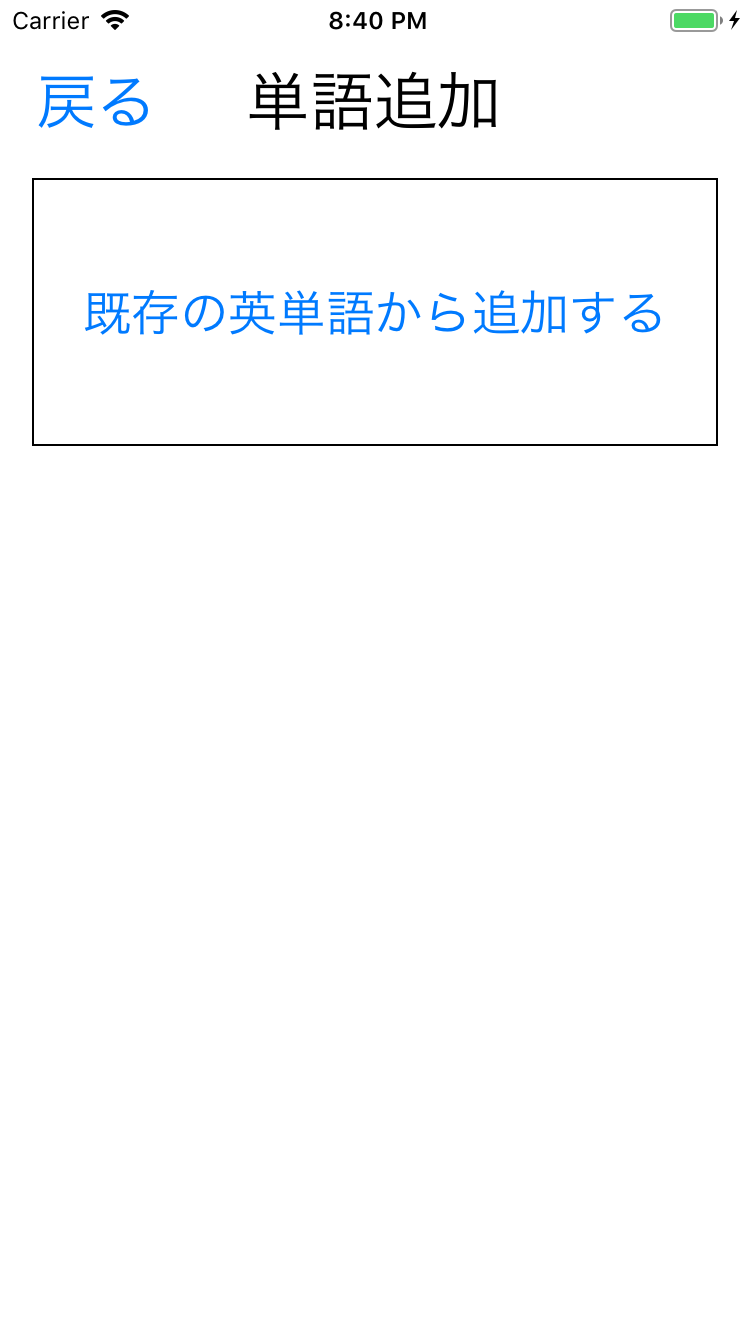
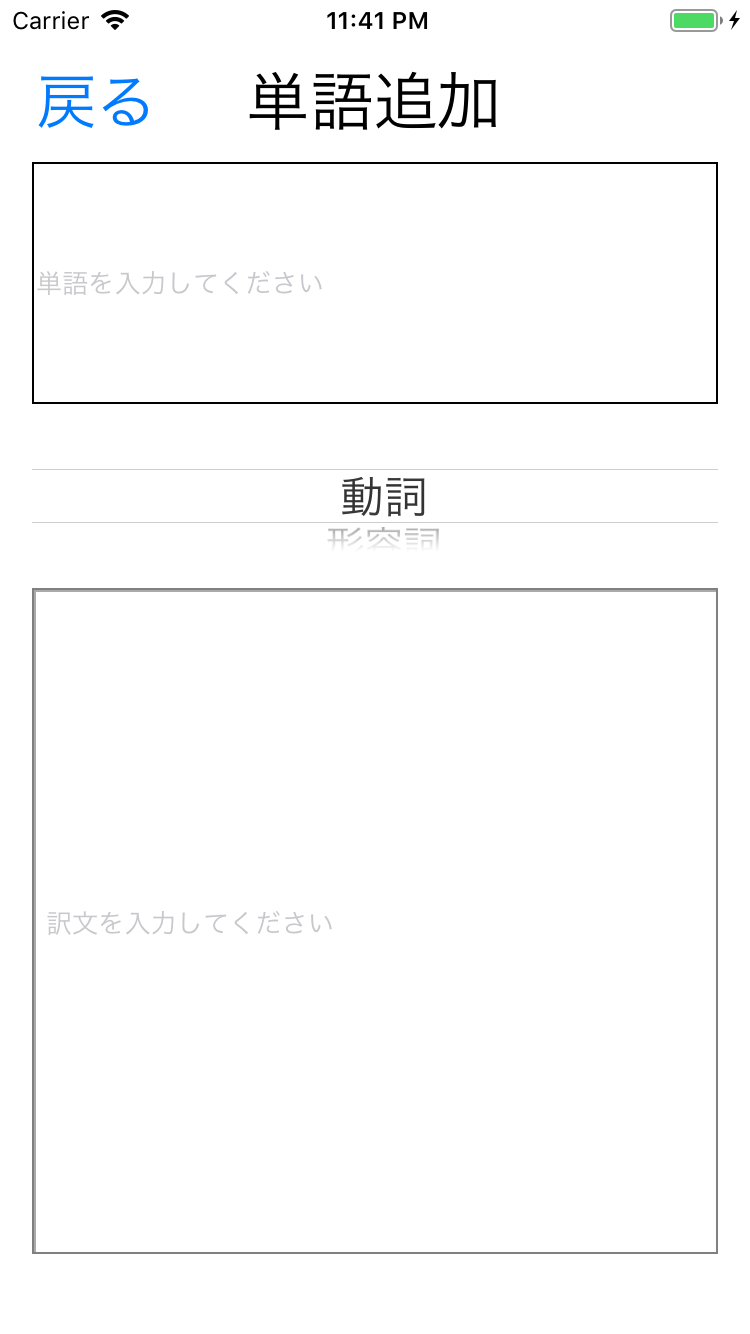
単語追加画面を変更、単語、訳文、品詞PickViewを追加

diff --git a/EnglishWords/EnglishWords/AddWordViewController.swift b/EnglishWords/EnglishWords/AddWordViewController.swift
@@ -10,17 +10,60 @@ import Foundation
 import UIKit
 import RealmSwift
 
-class AddWordViewController: UIViewController {
+class AddWordViewController: UIViewController,UIPickerViewDelegate,UIPickerViewDataSource{
     
+    @IBOutlet var wordtextField: UITextField!
+    @IBOutlet var meantextField: UITextField!
+    @IBOutlet var pickerView: UIPickerView!
+    
+    var partsofspeechlist: [PartsofSpeech] = []
+    var selectedPartsOfSpeech = ""
     var wordnotebook: WordNoteBook?
-    
-    @IBOutlet var AddWordFromMasterbutton: UIButton!
     
     override func viewDidLoad() {
         super.viewDidLoad()
         
-        //ボタンを黒い枠線で囲む
-        AddWordFromMasterbutton.layer.borderColor = UIColor.black.cgColor
+        // Delegate設定
+        pickerView.delegate = self
+        pickerView.dataSource = self
+        
+        wordtextField.placeholder = "単語を入力してください"
+        meantextField.placeholder = "訳文を入力してください"
+        
+        //データベース内に保存してあるPartsofSpeechを全て取得
+        let realm: Realm = try! Realm()
+        let results = realm.objects(PartsofSpeech.self)
+        partsofspeechlist = Array(results)
+        print(partsofspeechlist)
+    }
+    
+    override func didReceiveMemoryWarning() {
+        super.didReceiveMemoryWarning()
+    }
+    
+    // UIPickerViewの列の数
+    func numberOfComponents(in pickerView: UIPickerView) -> Int {
+        return 1
+    }
+    
+    // UIPickerViewの行数、リストの数
+    func pickerView(_ pickerView: UIPickerView, numberOfRowsInComponent component: Int) -> Int {
+        return partsofspeechlist.count
+    }
+    
+    // UIPickerViewに表示する配列
+    func pickerView(_ pickerView: UIPickerView,
+                    titleForRow row: Int,
+                    forComponent component: Int) -> String? {
+        
+        return partsofspeechlist[row].partsOfSpeechName
+    }
+    
+    // UIPickerViewのRowが選択された時の挙動
+    func pickerView(_ pickerView: UIPickerView,
+                    didSelectRow row: Int,
+                    inComponent component: Int) {
+        selectedPartsOfSpeech = partsofspeechlist[row].partsOfSpeechName
     }
     
     @IBAction func buttonAction(_ sender: Any) {
@@ -37,9 +80,5 @@ class AddWordViewController: UIViewController {
             // ConfigureWordNoteBookViewControllerのwordnotebookに設定している単語帳を設定
             cwnbVC2.wordnotebook = wordnotebook
         }
-    }
-    
-    override func didReceiveMemoryWarning() {
-        super.didReceiveMemoryWarning()
     }
 }

diff --git a/EnglishWords/EnglishWords/AddWordNoteBookViewController.swift b/EnglishWords/EnglishWords/AddWordNoteBookViewController.swift
@@ -41,7 +41,7 @@ class AddWordNoteBookViewController: UIViewController, UITextFieldDelegate {
             //Realm
             let realm = try! Realm()
             let results = realm.objects(WordNoteBook.self)
-            var maxId = results.value(forKeyPath: "@max.wordNoteBookId")! as! Int
+            let maxId = results.value(forKeyPath: "@max.wordNoteBookId")! as! Int
 
             try! realm.write {
                 realm.add([WordNoteBook(value: ["wordNoteBookId": (maxId + 1),

diff --git a/EnglishWords/EnglishWords/WordData.swift b/EnglishWords/EnglishWords/WordData.swift
@@ -11,7 +11,7 @@ import RealmSwift
 
 class WordData: Object{
     @objc dynamic var word: Word?
-    @objc dynamic var partofspeech: PartofSpeech?
+    @objc dynamic var partofspeech: PartsofSpeech?
     @objc dynamic var mean = " "
     @objc dynamic var source = " "
     @objc dynamic var example = " "
